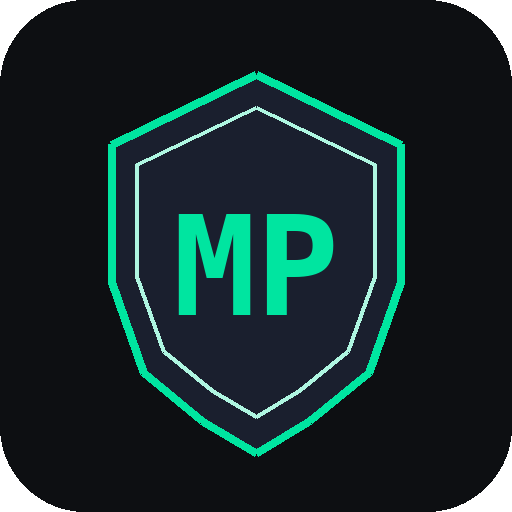
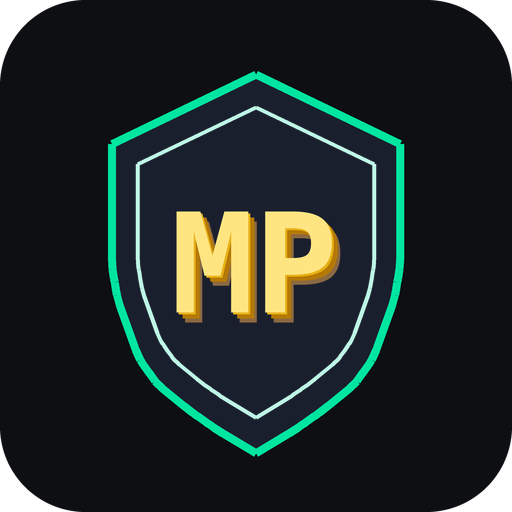
Add files via upload

diff --git a/index.html b/index.html
@@ -998,19 +998,27 @@ function showMPAlert(mp) {
       placeholders[ph] = a;
       q = q.replace(new RegExp('\\b'+a+'\\b', 'gi'), ph);
     });
-    fetch('https://api.mymemory.translated.net/get?q='+encodeURIComponent(q)+'&langpair=en|ru')
-      .then(function(r){ return r.json(); })
-      .then(function(d){
-        if (d && d.responseStatus===200 && d.responseData && d.responseData.translatedText) {
-          var translated = d.responseData.translatedText;
-          Object.keys(placeholders).forEach(function(ph){
-            translated = translated.split(ph).join(placeholders[ph]);
-          });
-          transTextEl.textContent = translated;
-          transEl.style.display = 'block';
-        }
-      })
-      .catch(function(){});
+    // If nothing is left to translate after removing acronyms,
+    // just show the original text — no point sending placeholders to the API.
+    var qStripped = q.replace(/§§\d+§§/g, '').trim();
+    if (!qStripped) {
+      transTextEl.textContent = textToTranslate;
+      transEl.style.display = 'block';
+    } else {
+      fetch('https://api.mymemory.translated.net/get?q='+encodeURIComponent(q)+'&langpair=en|ru')
+        .then(function(r){ return r.json(); })
+        .then(function(d){
+          if (d && d.responseStatus===200 && d.responseData && d.responseData.translatedText) {
+            var translated = d.responseData.translatedText;
+            Object.keys(placeholders).forEach(function(ph){
+              translated = translated.split(ph).join(placeholders[ph]);
+            });
+            transTextEl.textContent = translated;
+            transEl.style.display = 'block';
+          }
+        })
+        .catch(function(){});
+    }
   }
 }
 